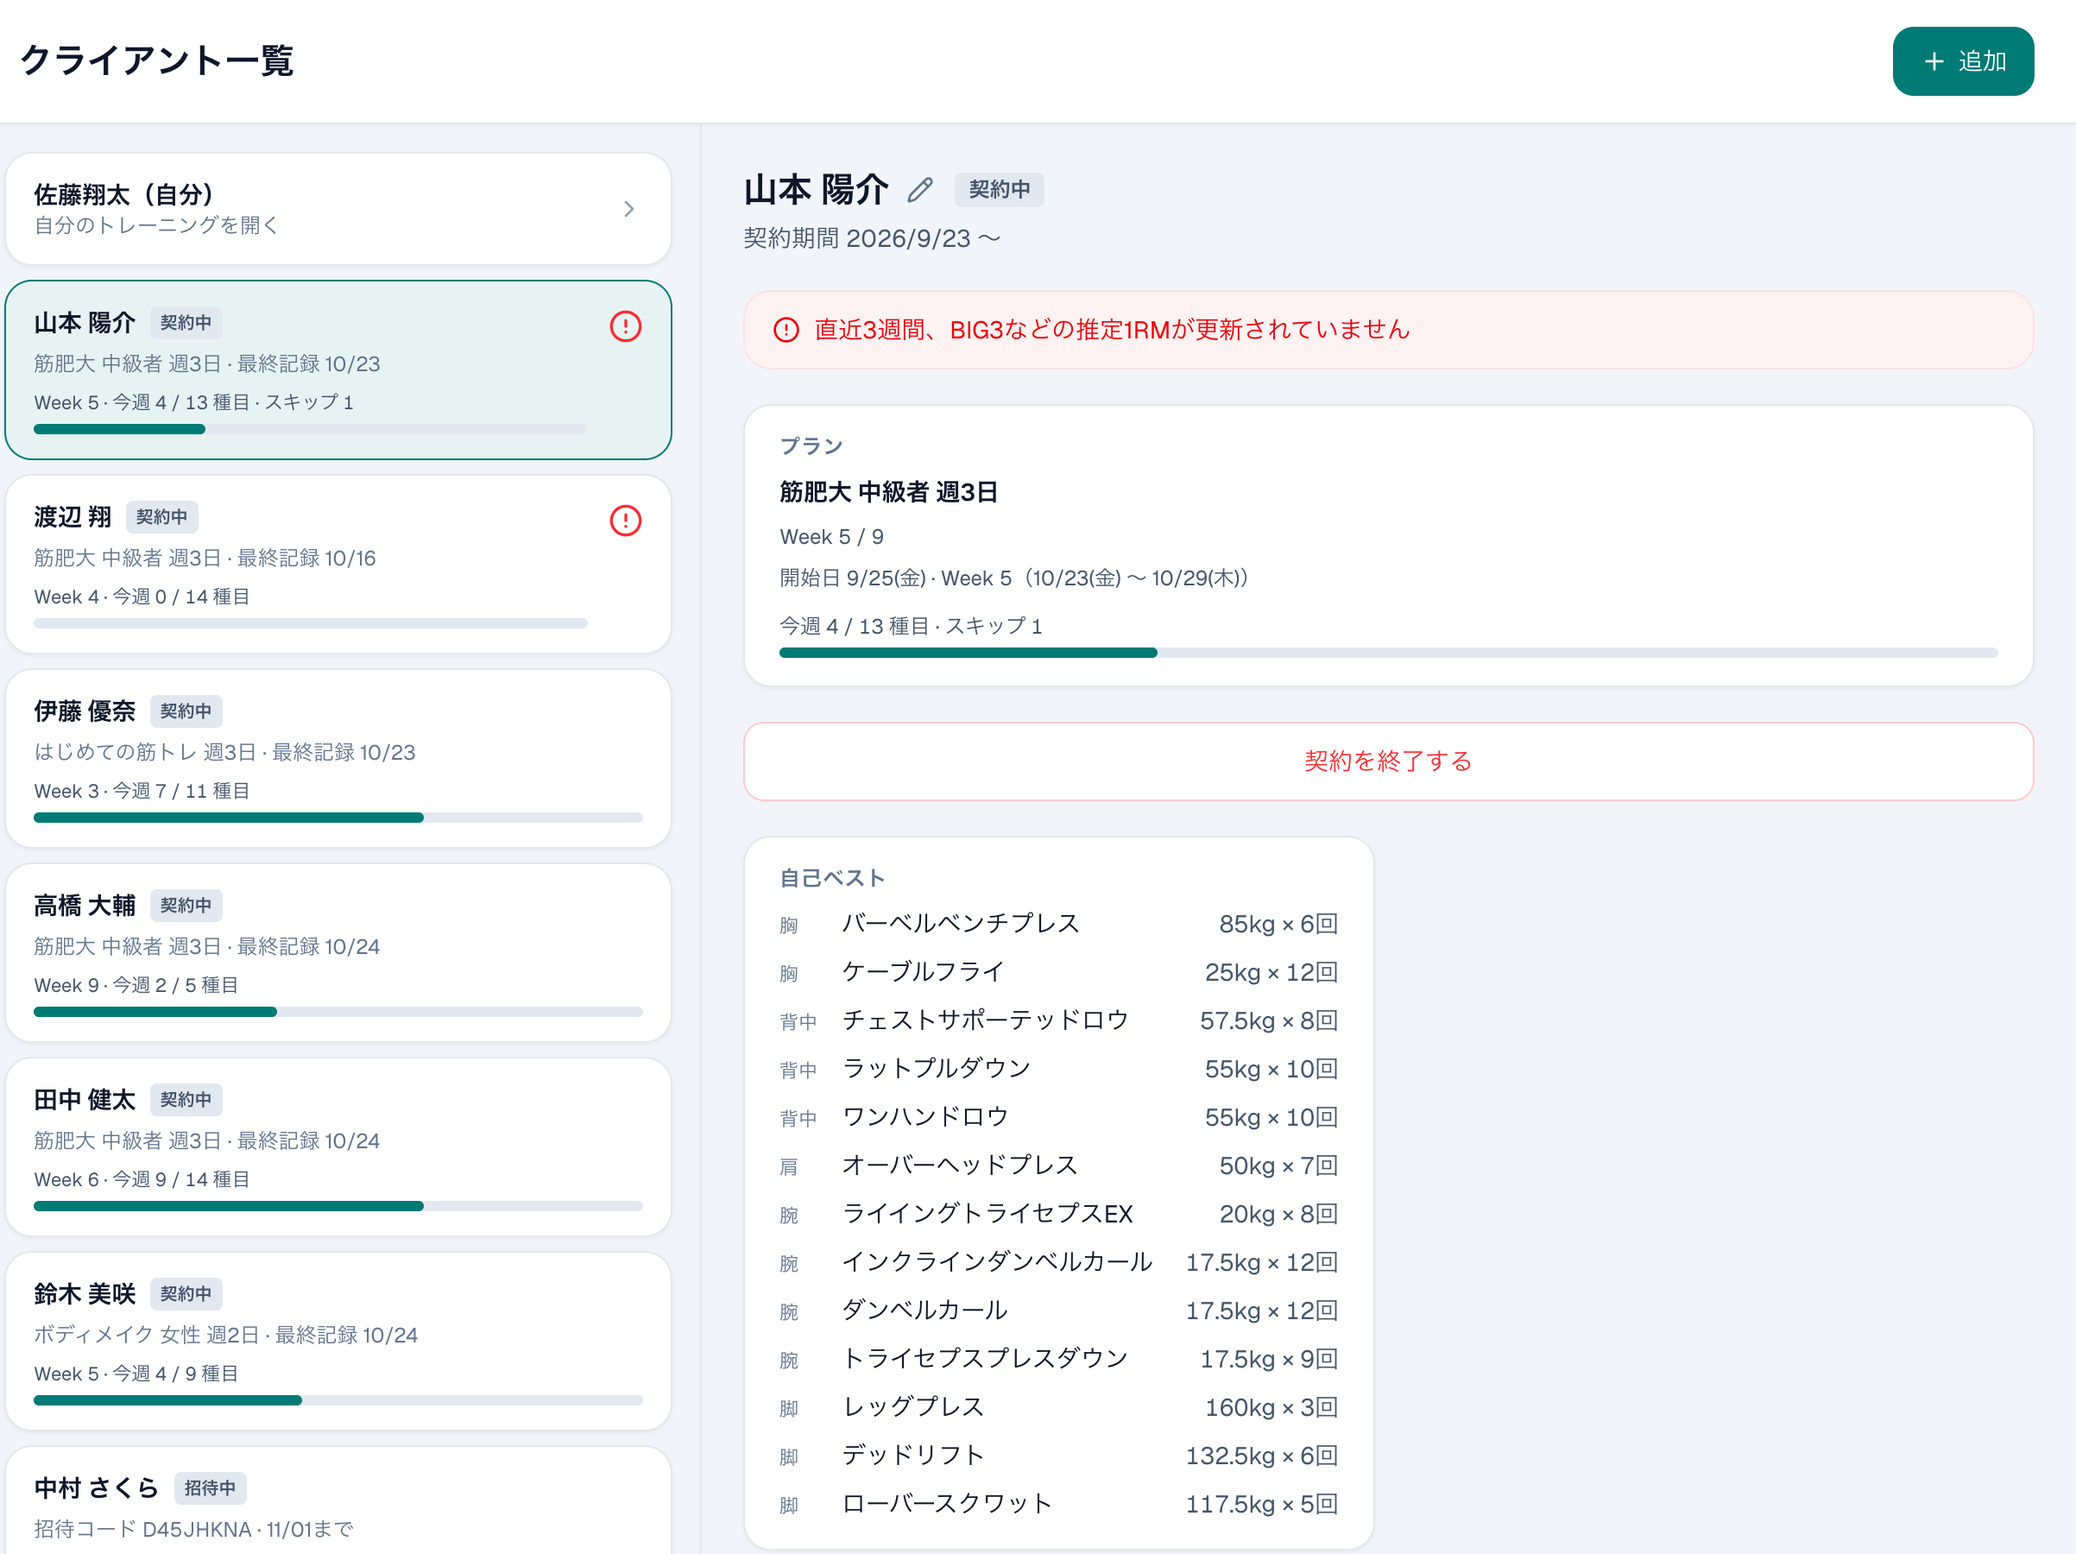
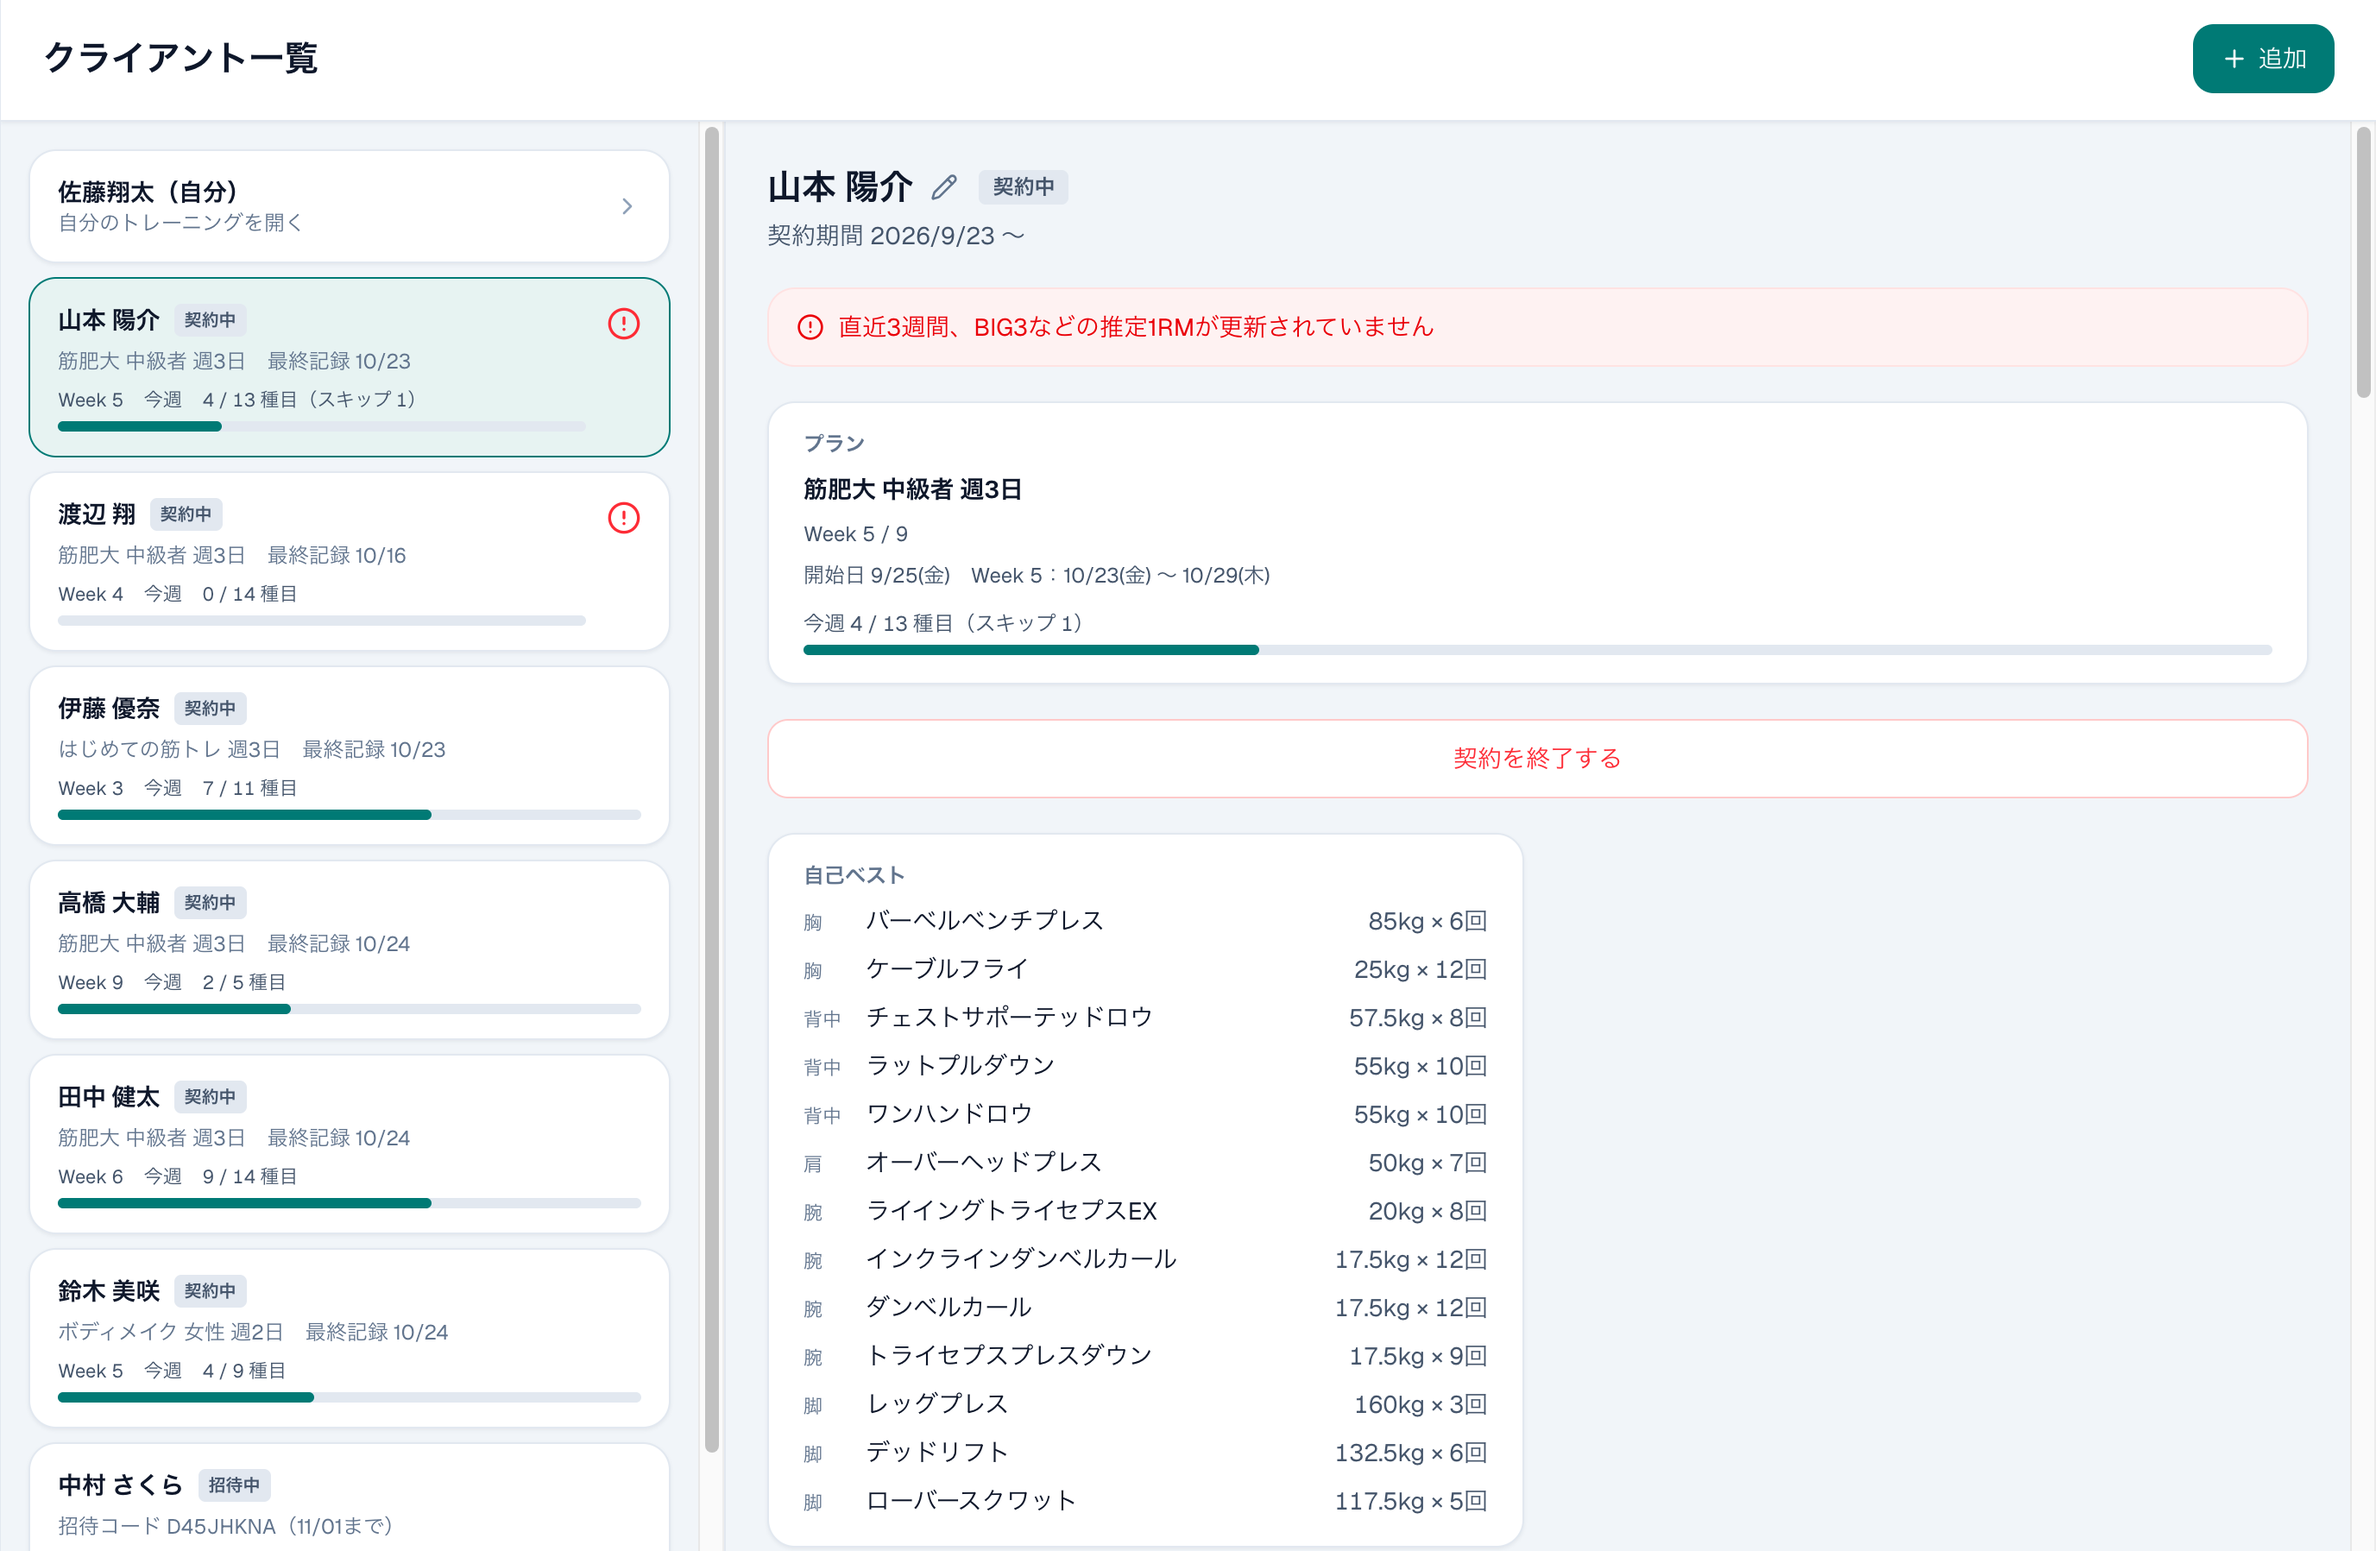
chore: トレーナー向けLPのWeb版スクショを最新の画面構成に差し替え
サイドバーをアイコン表示にした新しい画面構成に合わせて、ダッシュボード・編集画面（Dayごと／種目ごと）・
クライアント一覧の画像を差し替え、縦横比と代替テキストを更新。

diff --git a/app/trainer/page.tsx b/app/trainer/page.tsx
@@ -85,7 +85,7 @@ export default function TrainerPage() {
           <div className="container">
             <figure className="shot">
               <div className="shot__frame showcase__frame" data-slot="dashboard" data-kind="product" data-alt="トレーナーのダッシュボード（契約中・今週の進み・ToDo・アラート）">
-                <Image src="/trainer/dashboard.png" alt="Auxlogのトレーナー用ダッシュボード。契約中の人数、今週完了した種目、1RM更新件数、最近のアクティビティ、ToDo、アラートが並ぶ" fill sizes="(min-width: 90rem) 1312px, 100vw" fetchPriority="high" loading="eager" unoptimized />
+                <Image src="/trainer/dashboard.png" alt="Auxlogのトレーナー用ダッシュボード。対応すること（アラートとToDo）、契約中の人数や1RM更新件数、最近のアクティビティ、今週の進捗が並ぶ" fill sizes="(min-width: 90rem) 1312px, 100vw" fetchPriority="high" loading="eager" unoptimized />
               </div>
               <figcaption>{jp("ログインして最初に開く画面。今週の進み、次にやること、止まっている人がここに集まります。")}</figcaption>
             </figure>
@@ -274,7 +274,7 @@ const STACK = [
     alt: "種目の入れ替え画面。全週のDay 1かこの週だけかを選び、同じ動きの種目と同じ部位の種目から選ぶ",
   },
   {
-    id: "watch", verb: "見守る", src: "/trainer/client.png", ratio: "2405 / 1800", width: "100%",
+    id: "watch", verb: "見守る", src: "/trainer/client.png", ratio: "2753 / 1797", width: "100%",
     title: "止まった人から、先に知らせる",
     body: "記録が途切れた人がいれば、すぐ分かります。1RMが伸びない種目も、アラートで。",
     alt: "クライアント一覧と詳細。推定1RMが更新されていないというアラート、プランの進み、自己ベストが表示されている",

diff --git a/app/trainer/EditViews.tsx b/app/trainer/EditViews.tsx
@@ -63,7 +63,7 @@ export default function EditViews() {
           data-slot={`edit-${v.key}`}
           data-kind="product"
           data-alt={v.alt}
-          style={{ aspectRatio: "2405 / 1800" }}
+          style={{ aspectRatio: "2753 / 1797" }}
         >
           <Image src={v.src} alt={v.alt} fill sizes="(min-width: 60rem) 56vw, 100vw" unoptimized />
         </div>
